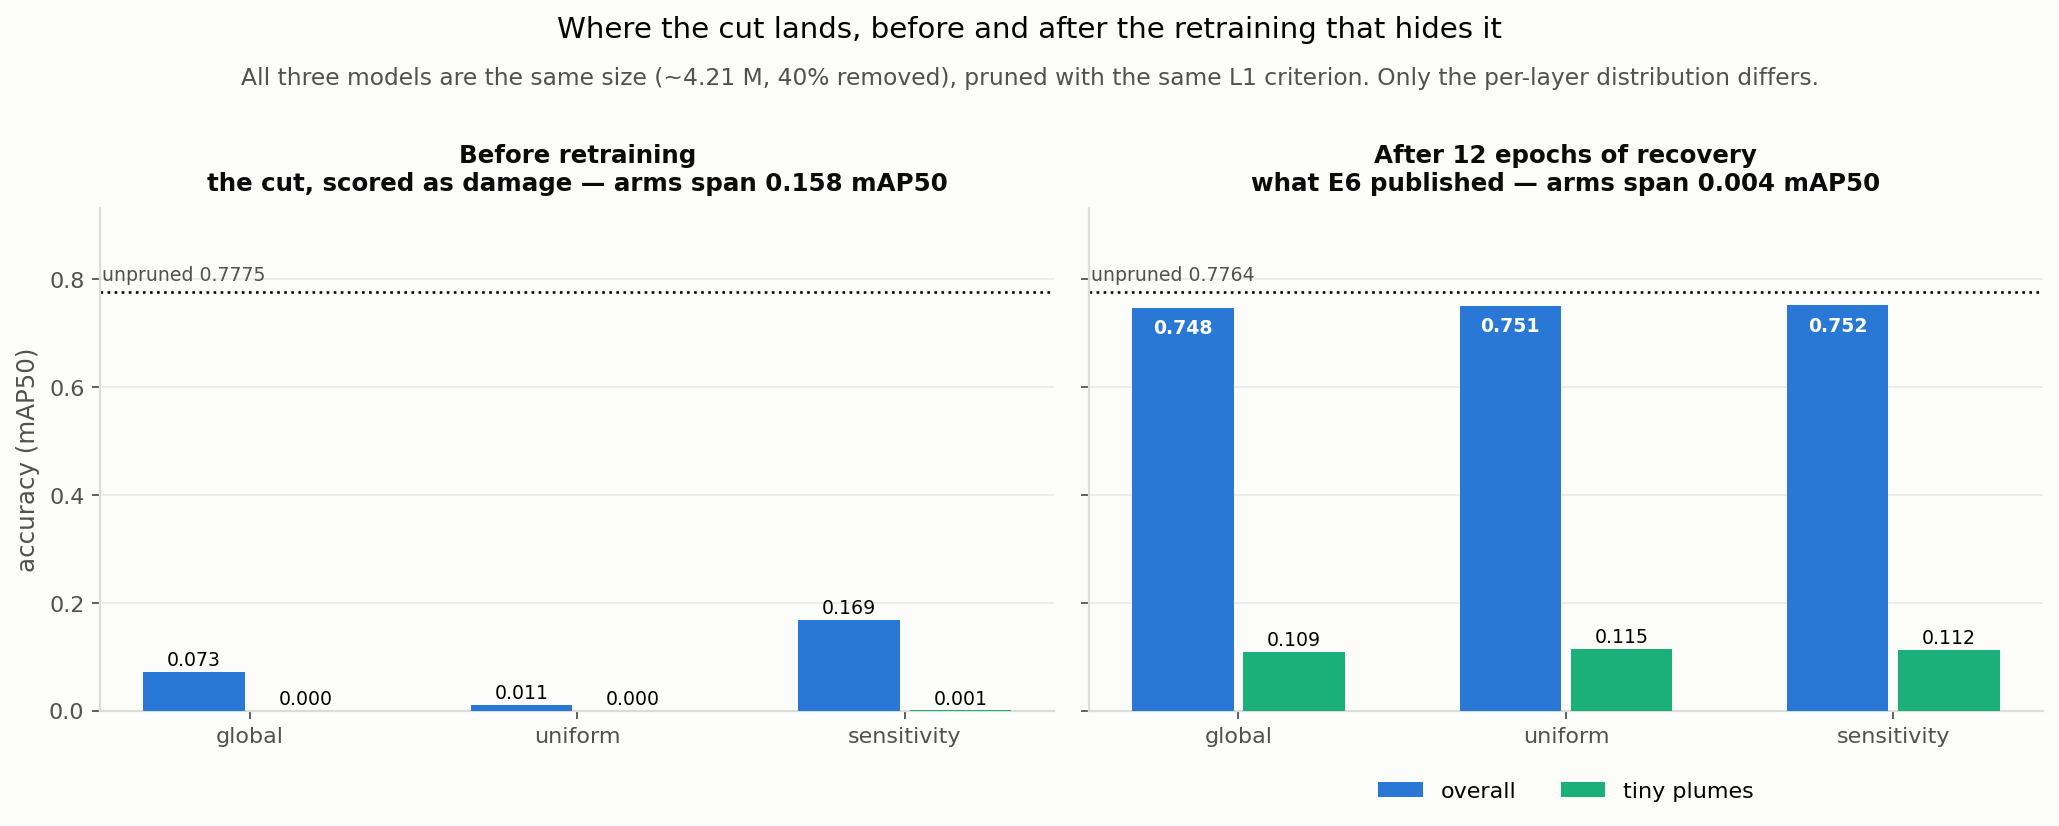
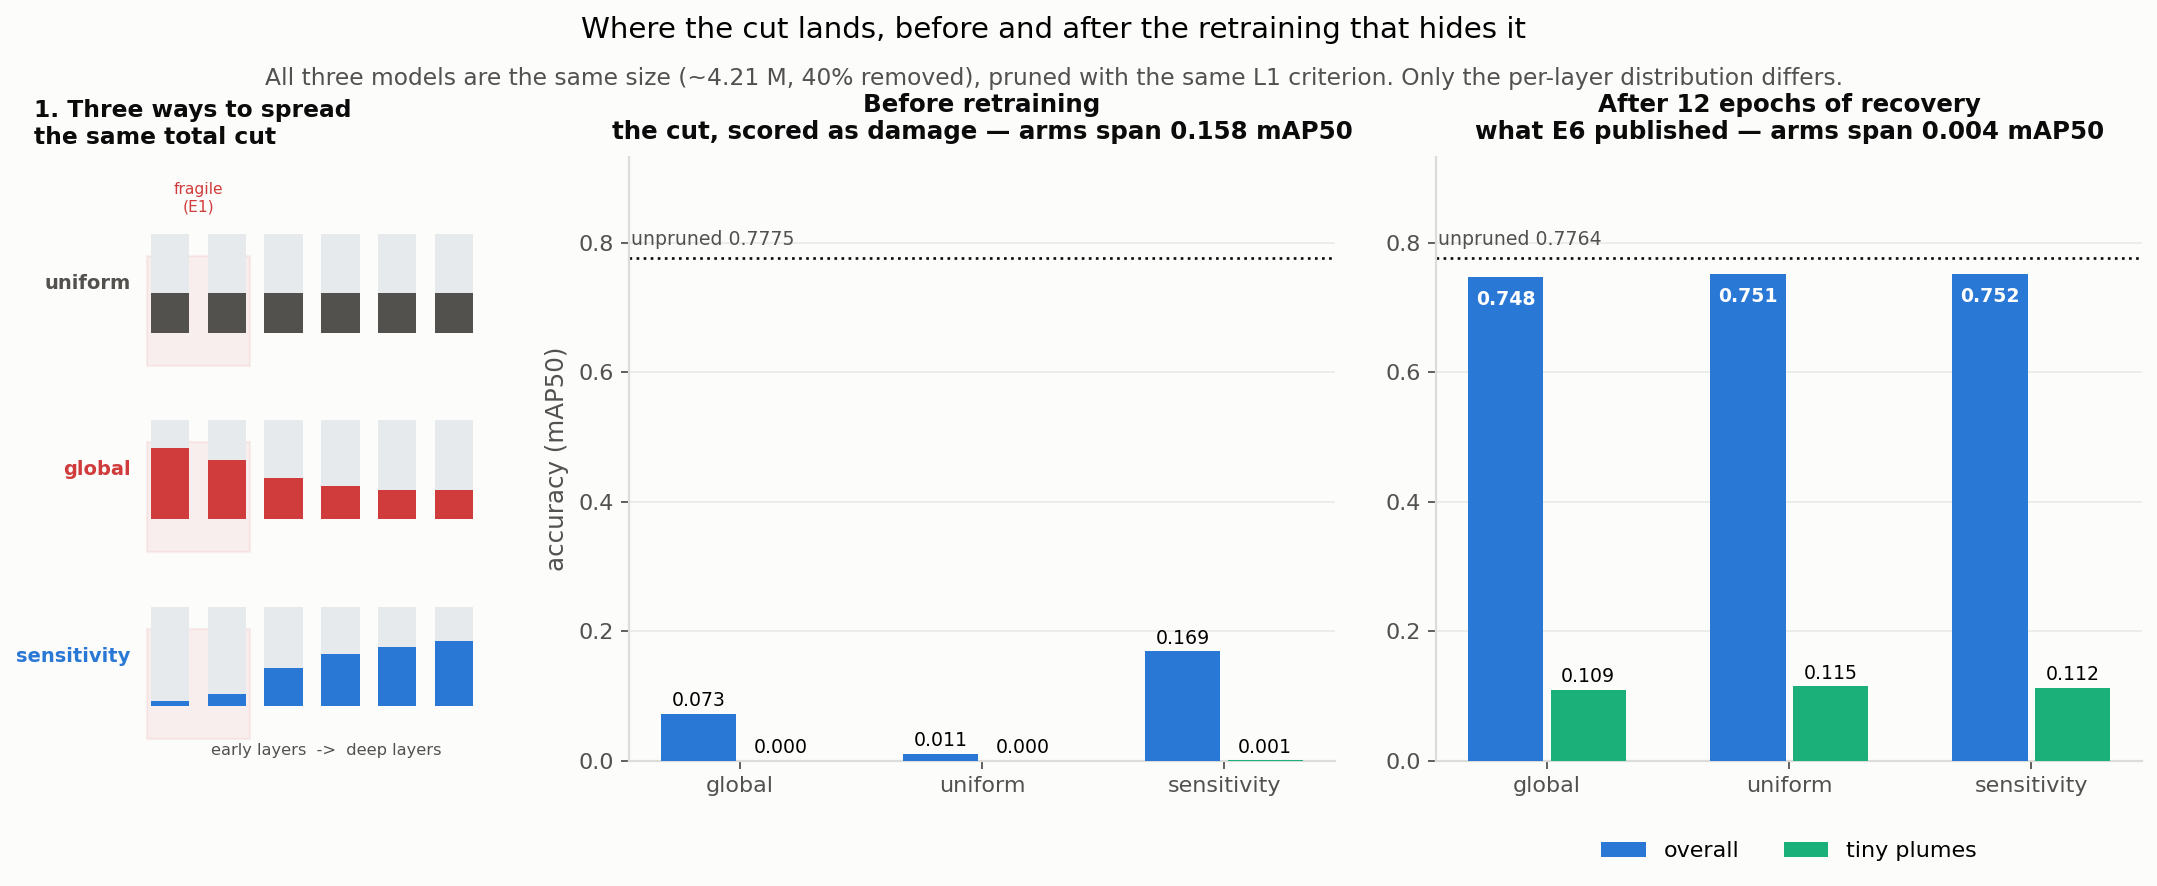
XP6 E6 figure: add a panel 1 showing the three allocations
A schematic now leads: six layers, early ones narrow and fragile, with each
strategy drawn as how much it removes per layer. Uniform is flat, global hammers
the fragile early layers, sensitivity protects them and cuts deep instead. All
three remove the same total, differing only in where, which is exactly what the
two data panels then score.

diff --git a/analysis/make_figures.py b/analysis/make_figures.py
@@ -1060,13 +1060,45 @@ def fig_xp06e6(records) -> Path | None:
                         arms[a].get("map50_tiny_plume") or 0) for a in order},
                    0.7764))
 
-    fig, axes = plt.subplots(1, len(panels), figsize=(6.5 * len(panels), 4.9),
-                             sharey=True, squeeze=False)
-    axes = axes[0]
+    from matplotlib.patches import Rectangle
+    fig = plt.figure(figsize=(4.6 + 6.2 * len(panels), 4.9))
+    gs = fig.add_gridspec(1, len(panels) + 1, width_ratios=[0.7] + [1] * len(panels),
+                          wspace=0.16)
+    sch = fig.add_subplot(gs[0, 0])
+    axes = [fig.add_subplot(gs[0, i + 1], sharey=(None)) for i in range(len(panels))]
+    if len(axes) > 1:
+        axes[1].sharey(axes[0])
     fig.suptitle("Where the cut lands, before and after the retraining that hides it", y=1.06)
     style.subtitle(fig, "All three models are the same size (~4.21 M, 40% removed), pruned "
                         "with the same L1 criterion. Only the per-layer distribution differs.",
                    y=0.995)
+
+    # --- panel 1: the three ways to spread one fixed total cut ------------
+    # Six layers, early ones narrow and fragile (E1), deep ones wide. Each row is
+    # a strategy: the bar height is how much of that layer it removes. All three
+    # remove the same TOTAL; they differ only in where. Illustrative shape, the
+    # point the two data panels then score.
+    sch.set_xlim(-2.4, 6.3); sch.set_ylim(-0.6, 10.4); sch.axis("off")
+    sch.set_title("1. Three ways to spread\nthe same total cut", fontsize=10.5, pad=6,
+                  loc="left")
+    profiles = [("uniform", style.INK_2, [.40, .40, .40, .40, .40, .40]),
+                ("global", style.RED, [.72, .60, .42, .34, .30, .30]),
+                ("sensitivity", style.BLUE, [.05, .12, .38, .52, .60, .66])]
+    for row, (name, colour, prof) in enumerate(profiles):
+        yb = 7.2 - row * 3.4
+        sch.axvspan(-0.4, 1.4, ymin=(yb) / 11.0, ymax=(yb + 2.0) / 11.0,
+                    color=style.RED, alpha=0.07, zorder=0)
+        for x, cut in enumerate(prof):
+            sch.add_patch(Rectangle((x - 0.34, yb), 0.68, 1.8, facecolor="#e6eaec",
+                                    edgecolor="none", zorder=2))
+            sch.add_patch(Rectangle((x - 0.34, yb), 0.68, 1.8 * cut, facecolor=colour,
+                                    edgecolor="none", zorder=3))
+        sch.text(-0.7, yb + 0.9, name, ha="right", va="center", fontsize=8.8,
+                 fontweight="bold", color=colour)
+    sch.text(0.5, 7.2 + 2.15, "fragile\n(E1)", ha="center", fontsize=7,
+             color=style.RED, va="bottom")
+    sch.text(2.75, -0.5, "early layers  ->  deep layers", ha="center", fontsize=7.3,
+             color=style.INK_2)
 
     series = (("overall", style.BLUE), ("tiny plumes", style.AQUA))
     x = np.arange(len(order))
